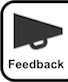
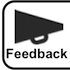
anchor bug really solved

Changed region(s): [[0.0, 0.0, 1.0, 1.0], [0.1765, 0.1143, 0.9412, 0.6571], [0.7941, 0.3143, 0.8529, 0.3429]]

diff --git a/OTAppaloosa/Classes/Service/OTAppaloosaInAppFeedbackManager.m b/OTAppaloosa/Classes/Service/OTAppaloosaInAppFeedbackManager.m
@@ -22,8 +22,8 @@
 // Constants :
 static const CGFloat kFeedbackButtonTopMargin = 70;
 
-static const CGFloat kFeedbackButtonWidth = 34;
-static const CGFloat kFeedbackButtonHeight = 41;
+static const CGFloat kFeedbackButtonWidth = 35;
+static const CGFloat kFeedbackButtonHeight = 35;
 
 static const CGFloat kAnimationDuration = 0.9;
 
@@ -34,6 +34,9 @@ static const CGFloat kAnimationDuration = 0.9;
 + (UIImage *)getScreenshotImageFromCurrentScreen;
 - (void)triggerFeedbackWithRecipientsEmailArray:(NSArray *)emailsArray andFeedbackButton:(UIButton *)feedbackButton;
 + (UIView *)getApplicationWindowView;
+
+- (void)onOrientationChange;
+- (void)updateFeedbackButtonFrame;
 
 @end
 
@@ -65,7 +68,8 @@ static OTAppaloosaInAppFeedbackManager *manager;
     self = [super init];
     if (self)
     {      
-        [self initializeDefaultFeedbackButton];        
+        [self initializeDefaultFeedbackButton];
+        [[NSNotificationCenter defaultCenter] addObserver:self selector:@selector(onOrientationChange) name:UIDeviceOrientationDidChangeNotification object:nil];
     }
     return self;
 }
@@ -117,7 +121,9 @@ static OTAppaloosaInAppFeedbackManager *manager;
 - (void)triggerFeedbackWithRecipientsEmailArray:(NSArray *)emailsArray andFeedbackButton:(UIButton *)feedbackButton
 {
     // take screenshot :
+    [self.feedbackButton setAlpha:0];
     UIImage *screenshotImage = [OTAppaloosaInAppFeedbackManager getScreenshotImageFromCurrentScreen];
+    [self.feedbackButton setAlpha:1];
     
     // display white blink screen (to copy iOS screenshot effect) before opening feedback controller :
     UIView *whiteView = [[UIView alloc] initWithFrame:[[UIScreen mainScreen] bounds]];
@@ -158,17 +164,14 @@ static OTAppaloosaInAppFeedbackManager *manager;
 {
     UIView *windowView = [OTAppaloosaInAppFeedbackManager getApplicationWindowView];
 
-    CGRect feedbackButtonFrame = CGRectMake(windowView.frame.size.width - kFeedbackButtonWidth,
-                                            kFeedbackButtonTopMargin,
-                                            kFeedbackButtonWidth,
-                                            kFeedbackButtonHeight);
-    self.feedbackButton = [[UIButton alloc] initWithFrame:feedbackButtonFrame];
-    [self.feedbackButton setAutoresizingMask:UIViewAutoresizingFlexibleLeftMargin];
+    self.feedbackButton = [[UIButton alloc] init];
     [self.feedbackButton setImage:[UIImage imageNamed:@"btn_feedback"] forState:UIControlStateNormal];
     [self.feedbackButton addTarget:self action:@selector(onFeedbackButtonTap) forControlEvents:UIControlEventTouchUpInside];
     [self.feedbackButton setHidden:YES]; // button is hidden by default
     
     [windowView addSubview:self.feedbackButton];
+    
+    [self updateFeedbackButtonFrame];
 }
 
 
@@ -195,7 +198,64 @@ static OTAppaloosaInAppFeedbackManager *manager;
         window = [[[UIApplication sharedApplication] windows] objectAtIndex:0];
     }
     
-    return [[window subviews] objectAtIndex:0];
+    return window;
+}
+
+- (void)onOrientationChange
+{
+    [self updateFeedbackButtonFrame];
+}
+
+
+- (void)updateFeedbackButtonFrame
+{
+    [self.feedbackButton setAlpha:0];
+    
+    UIView *windowView = [OTAppaloosaInAppFeedbackManager getApplicationWindowView];
+    UIDeviceOrientation currentOrientation = [[UIApplication sharedApplication] statusBarOrientation];
+    BOOL isInLandscapeMode = (UIDeviceOrientationIsLandscape(currentOrientation));
+    
+    CGFloat x;
+    CGFloat y;
+    CGFloat translationAngle;
+    if (!isInLandscapeMode)
+    {
+        if (currentOrientation == UIDeviceOrientationPortraitUpsideDown)
+        {
+            x = 0;
+            y = windowView.frame.size.height - kFeedbackButtonTopMargin - kFeedbackButtonHeight;
+            translationAngle = M_PI;
+        }
+        else
+        {
+            x = windowView.frame.size.width - kFeedbackButtonWidth;
+            y = kFeedbackButtonTopMargin;
+            translationAngle = 0;
+        }
+    }
+    else
+    {
+        if (currentOrientation == UIDeviceOrientationLandscapeRight)
+        {
+            x = kFeedbackButtonTopMargin;
+            y = 0;
+            translationAngle = -M_PI / 2;
+        }
+        else
+        {
+            x = windowView.frame.size.width - kFeedbackButtonTopMargin - kFeedbackButtonWidth;
+            y = windowView.frame.size.height - kFeedbackButtonHeight;
+            translationAngle = M_PI / 2;
+        }
+    }
+    CGRect feedbackButtonFrame = CGRectMake(x, y, kFeedbackButtonWidth, kFeedbackButtonHeight);
+    self.feedbackButton.transform = CGAffineTransformIdentity;
+    self.feedbackButton.frame = feedbackButtonFrame;
+    self.feedbackButton.transform = CGAffineTransformMakeRotation(translationAngle);
+    
+    [UIView animateWithDuration:kAnimationDuration animations:^{
+        [self.feedbackButton setAlpha:1];
+    }];
 }
 
 
